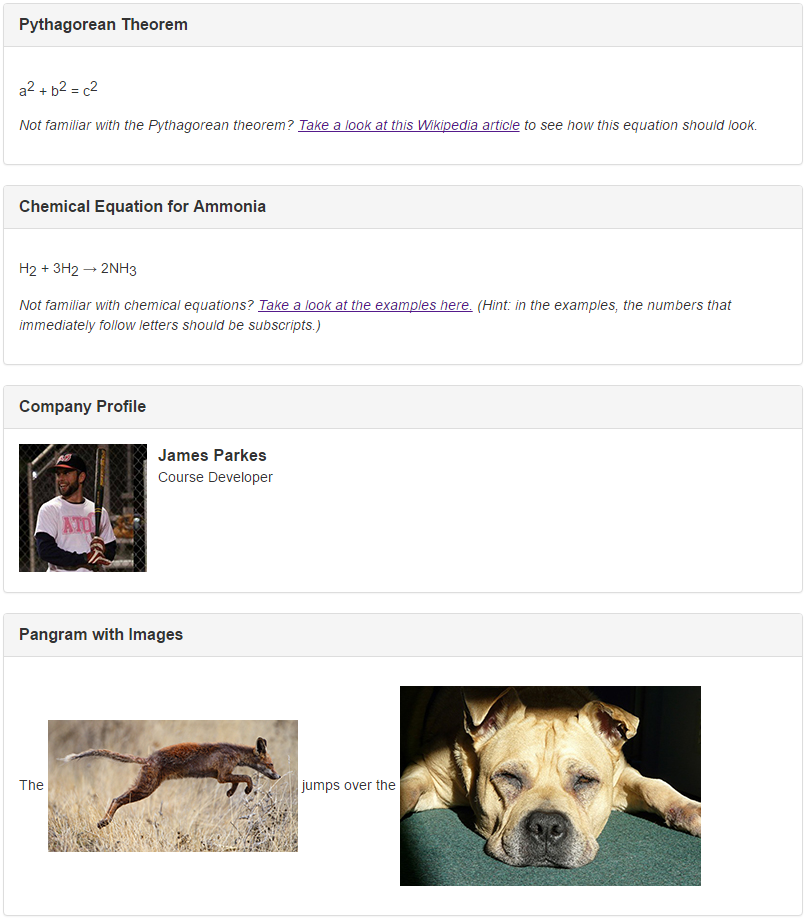
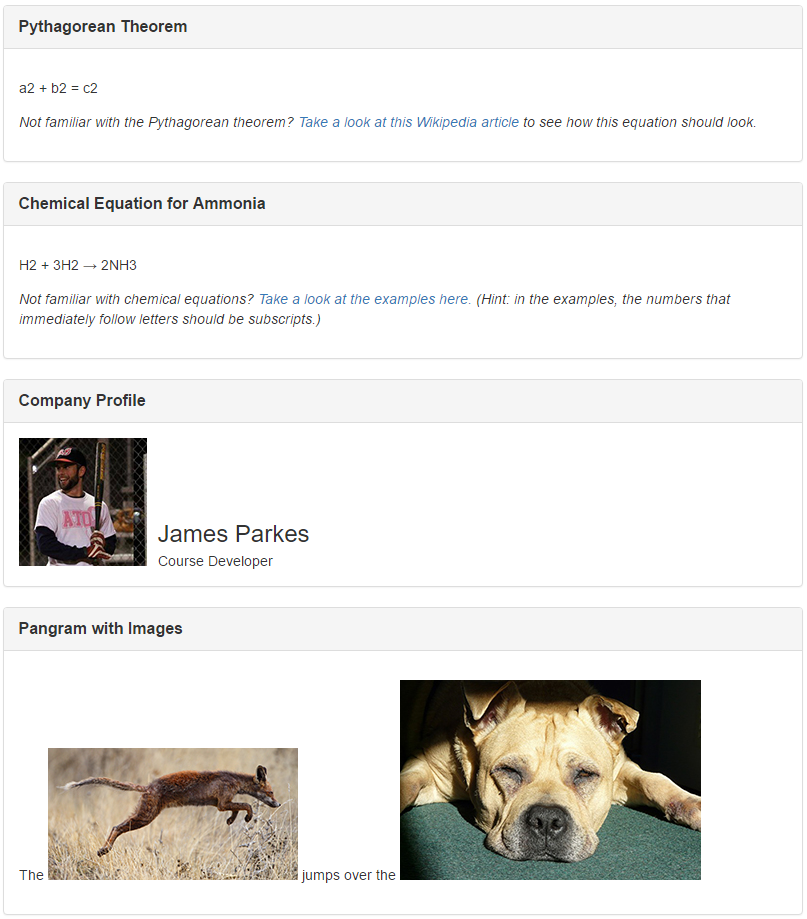
fix vertical align quiz

diff --git a/lessons/L5/problem-set/05-fun-with-vertical-align/css/original.css b/lessons/L5/problem-set/05-fun-with-vertical-align/css/original.css
@@ -1,24 +1,27 @@
-body {
-    margin: 8px;
-}
-html {
-    font-size: 16px;
-    line-height: normal;
-    font-family: "Helvetica Neue", Helvetica, Arial, sans-serif;
+html, body {
+	font-size: 16px;
+	line-height: normal;
+	font-family: "Helvetica Neue", Helvetica, Arial, sans-serif;
 }
 img {
-    vertical-align: baseline;
+	vertical-align: baseline;
+}
+p {
+	margin: 1em 0;
+}
+.h1, .h2, .h3, .h4, .h5, .h6, h1, h2, h3, h4, h5, h6 {
+	line-height: 1.42857143;
 }
 .container {
-    font-size: 14px;
-    line-height: 1.42857143;
-    color: #333;
-    background-color: #fff;
-    margin: 0 auto;
-    padding: 0;
+	font-size: 14px;
+	line-height: 1.42857143;
+	color: #333;
+	background-color: #fff;
+	margin: 0 auto;
+	padding: 0;
 }
 .panel-title {
-    font-weight: bold; 
+	font-weight: bold; 
 }
 .exponent {
 	vertical-align: super;
@@ -41,11 +44,11 @@ img {
 }
 @media (min-width: 800px) {
   .container {
-    max-width: 800px;
+	max-width: 800px;
   }
 }
 @media (max-width: 800px) {
   .container {
-    max-width: 100%;
+	max-width: 100%;
   }
 }

diff --git a/lessons/L5/problem-set/05-fun-with-vertical-align/css/styles.css b/lessons/L5/problem-set/05-fun-with-vertical-align/css/styles.css
@@ -1,6 +1,3 @@
-body {
-    margin: 8px;
-}
 html, body {
     font-size: 16px;
     line-height: normal;
@@ -8,6 +5,12 @@ html, body {
 }
 img {
     vertical-align: baseline;
+}
+p {
+    margin: 1em 0;
+}
+.h1, .h2, .h3, .h4, .h5, .h6, h1, h2, h3, h4, h5, h6 {
+    line-height: 1.42857143;
 }
 .container {
     font-size: 14px;

diff --git a/lessons/L5/problem-set/05-fun-with-vertical-align/question.md b/lessons/L5/problem-set/05-fun-with-vertical-align/question.md
@@ -8,7 +8,7 @@ The `vertical-align` [property](https://developer.mozilla.org/en-US/docs/Web/CSS
 
 _Examples of `vertical-align` with table-cells._
 
-The important thing here is `vertical-align` only works on **inline elements** ((or [inline-block](https://css-tricks.com/almanac/properties/d/display/#inline-block)) and **table-cells**.
+The important thing here is `vertical-align` only works on **inline elements** (or [inline-block](https://css-tricks.com/almanac/properties/d/display/#inline-block)) and **table-cells**.
 
 By default, all inline elements start `baseline` with the baseline of its parent. You can think of the baseline as the imaginary line at the bottom of the "line".
 
